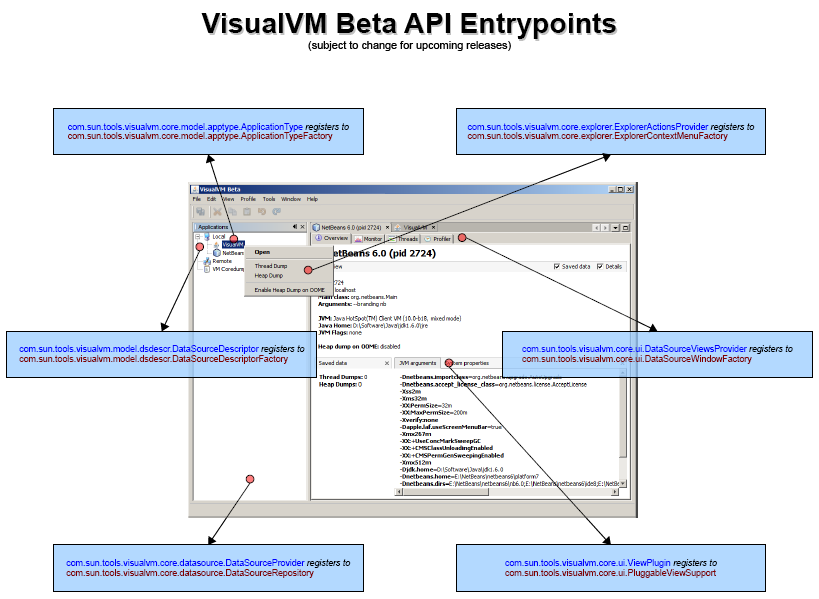
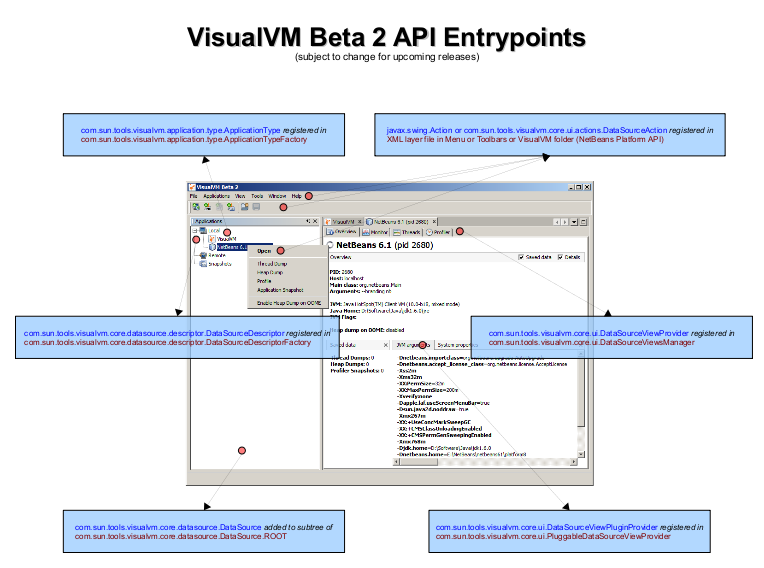
beta 2 changes
git-svn-id: https://svn.java.net/svn/visualvm~svn/trunk@834 ba0df5e5-9053-6d9f-941f-f112716aa91a

Changed region(s): [[0.0, 0.1796, 0.9935, 1.0], [0.2408, 0.0, 0.7827, 0.1197]]

diff --git a/www/api-quickstart.html b/www/api-quickstart.html
@@ -135,13 +135,13 @@
         
         <ul>
             <li>Tabs
-            <br><tt>com.sun.tools.visualvm.core.ui.DataSourceViewsProvider
-            <br>/com.sun.tools.visualvm.core.ui.DataSourceView</tt>
+            <br><tt>com.sun.tools.visualvm.core.ui.DataSourceViewProvider
+            <br>/com.sun.tools.visualvm.core.ui.DataSourceViewManager</tt>
             <p>To make your tabs extendable, the following API must be extended:
             <br><tt>com.sun.tools.visualvm.core.ui.PluggableViewSupport</tt>
             <li>Subtabs
-            <br><tt>com.sun.tools.visualvm.core.ui.ViewPlugin
-            <br>/com.sun.tools.visualvm.core.ui.ViewPlugin.ViewDescriptor</tt>
+            <br><tt>com.sun.tools.visualvm.core.ui.ViewPluginProvider
+            <br>/com.sun.tools.visualvm.core.ui.PluggableDataSourceViewProvider</tt>
             <p>To integrate a subtab into one of the existing tabs, you need
             to initialize one or more of the following APIs:
             <br><tt>com.sun.tools.visualvm.core.dataview.monitor.MonitorViewSupport</tt>
@@ -211,7 +211,7 @@
             plugin should be built against the VisualVM binary that you
             registered above.
             
-            <li><b>Get the VisualVM Javadoc.</b> Get these from the "Beta API Docs"
+            <li><b>Get the VisualVM Javadoc.</b> Get these from the "Beta 2 API Docs"
                 link on the <a href="https://visualvm.dev.java.net/">https://visualvm.dev.java.net/</a>
             page.</li>
             
@@ -275,42 +275,28 @@ public void uninstalled() {
             
             <p><li>Create a class called "HelloWorldViewProvider", as follows:
             
-            <p><pre>class HelloWorldViewProvider implements DataSourceViewsProvider&lt;Application&gt; {
+            <p><pre>class HelloWorldViewProvider implements DataSourceViewProvider&lt;Application&gt; {
 
-    private Map&lt;Application, DataSourceView&gt; viewsCache = new HashMap();
     private static DataSourceViewsProvider&lt;Application&gt; instance =  new HelloWorldViewProvider();
 
     <b>@Override</b>
-    public boolean supportsViewsFor(Application application) {
+    public boolean supportsViewFor(Application application) {
         //Always shown:
         return true;
     }
 
     <b>@Override</b>
-    public synchronized Set<? extends DataSourceView> getViews(final Application application) {
-        
-        DataSourceView view = viewsCache.get(application);
-        
-        if (view == null) {
-            view = new HelloWorldView(application) {
-                @Override
-                public void removed() {
-                    super.removed();
-                    viewsCache.remove(application);
-                }
-            };
-            viewsCache.put(application, view);
-        }
-        
-        return Collections.singleton(view);
-    }
+    public synchronized DataSourceView createView(final Application application) {
+        return new HelloWorldView(application);
 
+    }
+    
     static void initialize() {
-        DataSourceWindowFactory.sharedInstance().addViewProvider(instance, Application.class);
+        DataSourceViewsManager.sharedInstance().addViewsProvider(instance, Application.class);
     }
     
     static void unregister() {
-        DataSourceWindowFactory.sharedInstance().removeViewProvider(instance);
+        DataSourceViewsManager.sharedInstance().removeViewsProvider(instance);
     }
     
 }</pre>
@@ -325,23 +311,16 @@ public void uninstalled() {
             <p><pre>class HelloWorldView extends DataSourceView {
 
     private DataViewComponent dvc;
-    private Application application;
-    private DataViewComponent view;
-    //Here we reuse an existing image:
-    private static final String IMAGE_PATH = "com/sun/tools/visualvm/core/ui/resources/coredump.png"; // NOI18N
+    //Reusing an image from the sources:
+    private static final String IMAGE_PATH = "com/sun/tools/visualvm/coredump/resources/coredump.png"; // NOI18N
 
     public HelloWorldView(Application application) {
         super("Hello World", new ImageIcon(Utilities.loadImage(IMAGE_PATH, true)).getImage(), 60);
-        this.application = application;
-        view = createViewComponent();
     }
 
     <b>@Override</b>
-    public DataViewComponent getView() {
-        return view;
-    }
-
-    private DataViewComponent createViewComponent() {
+    @Override
+    protected DataViewComponent createComponent() {
 
         <b>//Data area for master view:</b>
         JEditorPane generalDataArea = new JEditorPane();
@@ -371,13 +350,13 @@ public void uninstalled() {
 
         <b>//Add detail views to the component:</b>
         dvc.addDetailsView(new DataViewComponent.DetailsView(
-                "Hello World Details 1", null, panel, null), DataViewComponent.TOP_LEFT);
+                "Hello World Details 1", null, 10, panel, null), DataViewComponent.TOP_LEFT);
         dvc.addDetailsView(new DataViewComponent.DetailsView(
-                "Hello World Details 2", null, panel, null), DataViewComponent.TOP_RIGHT);
+                "Hello World Details 2", null, 10, panel, null), DataViewComponent.TOP_RIGHT);
         dvc.addDetailsView(new DataViewComponent.DetailsView(
-                "Hello World Details 3", null, panel, null), DataViewComponent.BOTTOM_RIGHT);
+                "Hello World Details 3", null, 10, panel, null), DataViewComponent.BOTTOM_RIGHT);
         dvc.addDetailsView(new DataViewComponent.DetailsView(
-                "Hello World Details 4", null, panel, null), DataViewComponent.BOTTOM_RIGHT);
+                "Hello World Details 4", null, 10, panel, null), DataViewComponent.BOTTOM_RIGHT);
 
         return dvc;
 
@@ -561,7 +540,7 @@ public void uninstalled() {
         recommended to consult the following resources:
         
         <ol>
-            <li><b>VisualVM Javadoc.</b> Get these from the "Beta API Docs"
+            <li><b>VisualVM Javadoc.</b> Get these from the "Beta 2 API Docs"
                 link on the <a href="https://visualvm.dev.java.net/">https://visualvm.dev.java.net/</a>
             page.</li>
             <li><b>VisualVM Developer FAQ.</b> A <a href="api-faq.html">complete list of typical questions</a>
@@ -597,7 +576,12 @@ public void uninstalled() {
             <li><b>Blog entries by Geertjan Wielenga.</b> Geertjan is
                 the technical writer responsible for documenting the VisualVM APIs.
                 While learning about the VisualVM APIs, he wrote a series of blog
-                entries about the VisualVM APIs he was learning about. The relevant
+                entries about the VisualVM APIs he was learning about. 
+                
+                <p><b>Note:</b> Several APIs have changed since these blog entries
+                were written, but they should at least give you an idea of what
+                is involved in each particular scenario described.
+                <p>The relevant
                 blog entries are as follows:
                 <p><ul>
                     <li><b><a href="http://blogs.sun.com/geertjan/entry/getting_started_extending_visualvm"> Getting Started Extending VisualVM (Part 1)</a>.</b>
